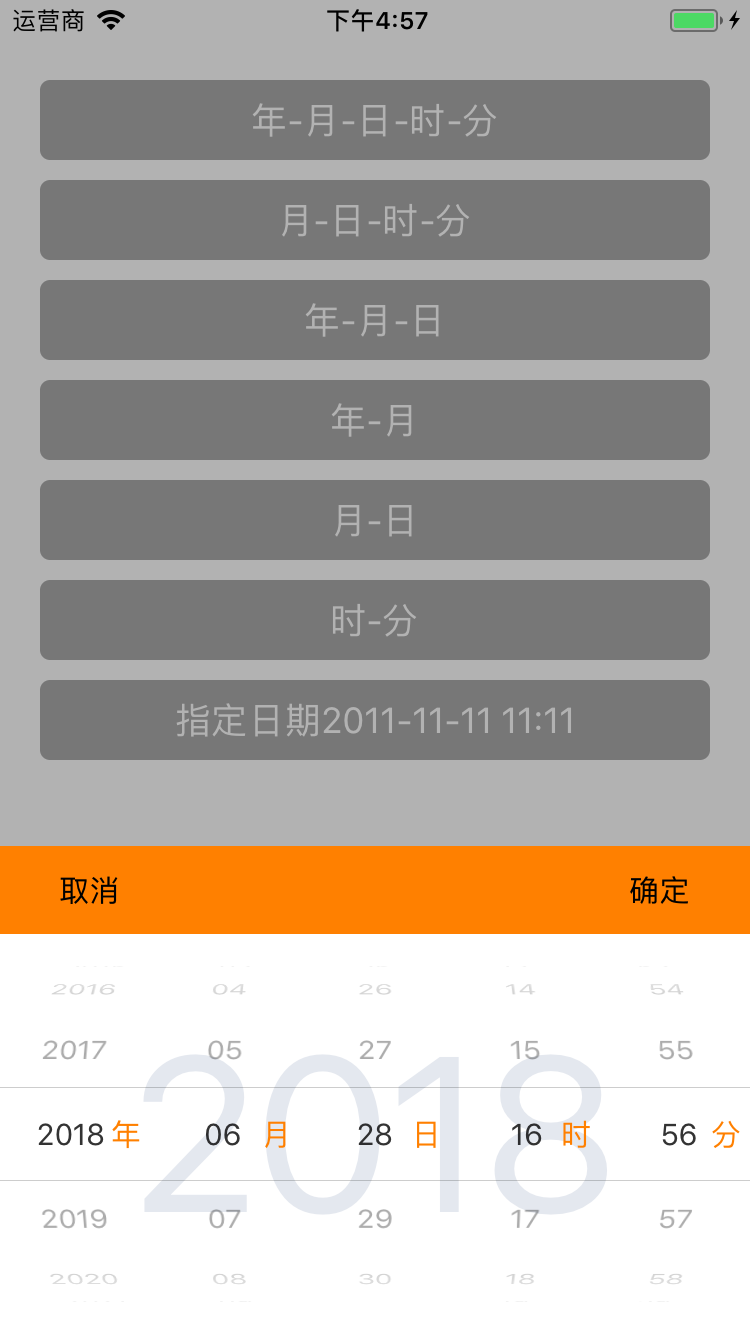
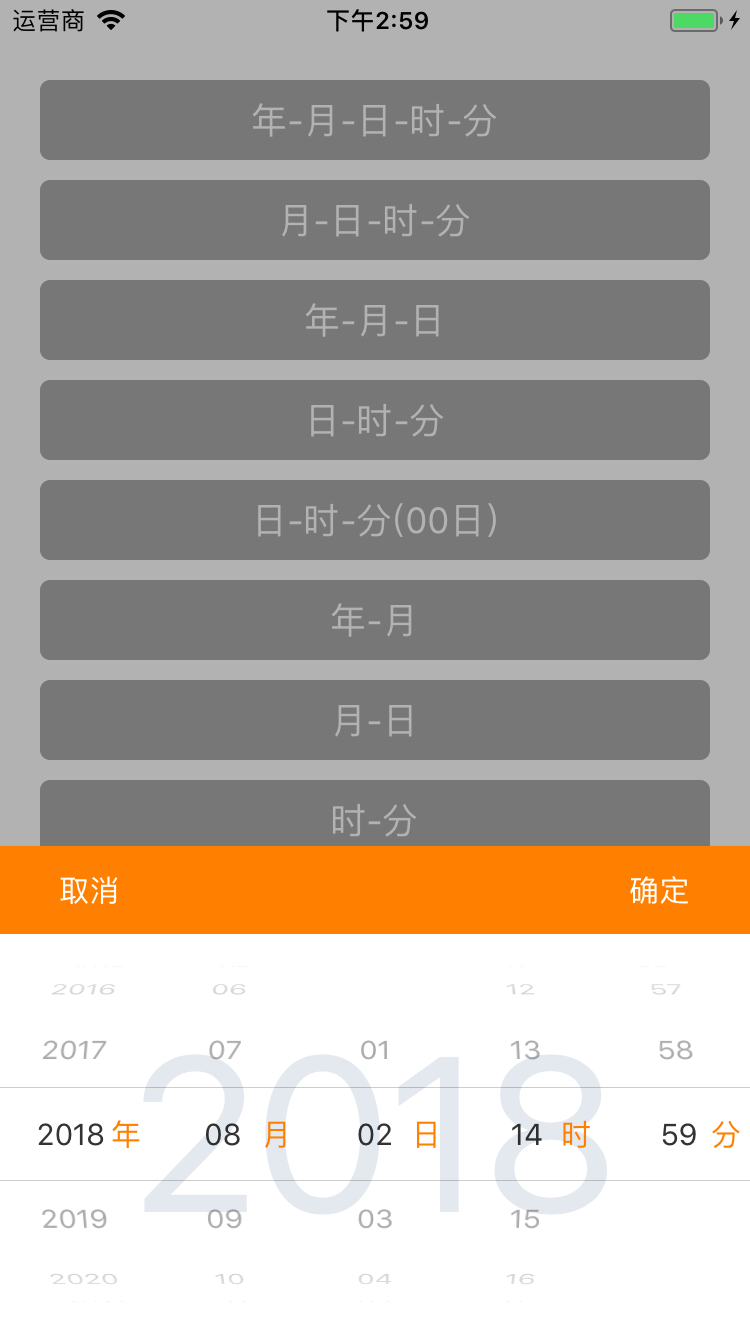
更新版本0.1.8，更改图片。

diff --git a/CXDatePickerView/ViewController.m b/CXDatePickerView/ViewController.m
@@ -52,6 +52,8 @@
             datepicker.dateLabelColor = [UIColor orangeColor];//年-月-日-时-分 颜色
             datepicker.datePickerColor = [UIColor blackColor];//滚轮日期颜色
             datepicker.headerViewColor = [UIColor orangeColor]; // 顶部视图背景颜色
+            datepicker.doneButtonColor = [UIColor whiteColor]; // 确认按钮字体颜色
+            datepicker.cancelButtonColor = [UIColor whiteColor]; // 取消按钮颜色
             datepicker.shadeViewAlphaWhenShow = 0.3;
             datepicker.showAnimationTime = 0.4;
             [datepicker show];
